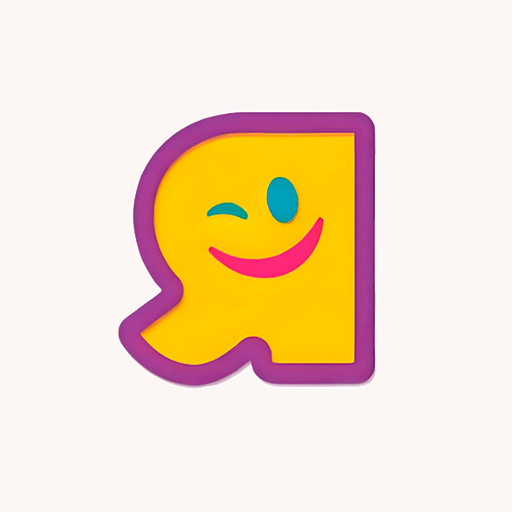
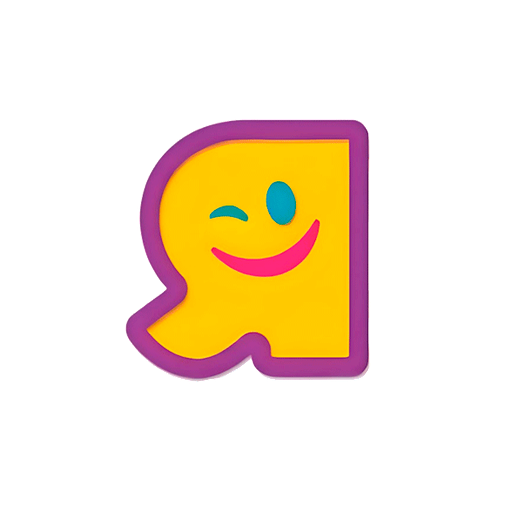
feat: icone PWA branco e card de instalacao no login
Alinha o fluxo de instalar o app com o Células Kids, incluindo iOS, e troca o fundo rosado do icone por branco.

diff --git a/js/pwa.js b/js/pwa.js
@@ -1,6 +1,136 @@
-(function registrarPWA() {
-  if (!('serviceWorker' in navigator)) return;
-  window.addEventListener('load', function () {
-    navigator.serviceWorker.register('./sw.js', { scope: './' }).catch(function () {});
+(function () {
+  const DISMISS_KEY = 'dk_pwa_install_dismissed';
+
+  function injetarEstilos() {
+    if (document.getElementById('videira-pwa-style')) return;
+    const style = document.createElement('style');
+    style.id = 'videira-pwa-style';
+    style.textContent = [
+      '#videira-pwa-install{position:fixed;left:12px;right:12px;bottom:16px;z-index:99999;',
+      'display:none;align-items:center;gap:12px;background:#8b5a6a;color:#fff;',
+      'padding:12px 14px;border-radius:14px;box-shadow:0 10px 30px rgba(74,59,62,.28);',
+      'font-family:Inter,system-ui,sans-serif;box-sizing:border-box;}',
+      '#videira-pwa-install *{box-sizing:border-box;}',
+      '#videira-pwa-install img{width:40px;height:40px;border-radius:10px;flex:0 0 auto;margin:0;display:block;background:#fff;}',
+      '#videira-pwa-install p{margin:0;font-size:13px;line-height:1.3;flex:1 1 auto;min-width:0;color:#fff;text-align:left;}',
+      '#videira-pwa-install strong{display:block;font-size:14px;font-weight:700;color:#fff;}',
+      '#videira-pwa-install .pwa-passos{display:block;margin-top:4px;color:#f3e3e8;font-size:12px;}',
+      '#videira-pwa-install button{width:auto;flex:0 0 auto;margin:0;border:0;border-radius:10px;',
+      'padding:8px 12px;font-size:14px;font-weight:700;line-height:1.2;cursor:pointer;',
+      'box-sizing:border-box;text-align:center;appearance:none;-webkit-appearance:none;transition:none;}',
+      '#videira-pwa-install button:hover{transform:none;}',
+      '#videira-pwa-install .pwa-ok{background:#d4a373;color:#3a2a20;}',
+      '#videira-pwa-install .pwa-ok:hover{background:#c89565;color:#3a2a20;}',
+      '#videira-pwa-install .pwa-no{background:transparent;color:#f3e3e8;padding:8px;}',
+      '#videira-pwa-install .pwa-no:hover{background:transparent;color:#fff;}',
+      '#videira-pwa-install .pwa-share{display:inline-block;width:15px;height:15px;vertical-align:-2px;',
+      'margin-right:3px;fill:#d4a373;}'
+    ].join('');
+    document.head.appendChild(style);
+  }
+
+  function jaInstalado() {
+    return window.matchMedia('(display-mode: standalone)').matches ||
+      window.navigator.standalone === true;
+  }
+
+  function isIOS() {
+    const ua = navigator.userAgent || '';
+    if (/iPad|iPhone|iPod/.test(ua)) return true;
+    return navigator.platform === 'MacIntel' && navigator.maxTouchPoints > 1;
+  }
+
+  function forcarIOS() {
+    try {
+      return new URLSearchParams(window.location.search).get('pwa') === 'ios';
+    } catch (e) {
+      return false;
+    }
+  }
+
+  function registrarSW() {
+    if (!('serviceWorker' in navigator)) return;
+    const swUrl = new URL('sw.js', window.location.href);
+    navigator.serviceWorker.register(swUrl.href, { scope: './' }).catch(function () {});
+  }
+
+  function obterBox(conteudo) {
+    let box = document.getElementById('videira-pwa-install');
+    if (!box) {
+      box = document.createElement('div');
+      box.id = 'videira-pwa-install';
+      box.innerHTML = conteudo;
+      document.body.appendChild(box);
+    }
+    return box;
+  }
+
+  function ativarFechar(box) {
+    const btnNo = box.querySelector('.pwa-no');
+    if (!btnNo) return;
+    btnNo.onclick = function () {
+      sessionStorage.setItem(DISMISS_KEY, '1');
+      box.style.display = 'none';
+    };
+  }
+
+  function mostrarBanner(deferred) {
+    if (jaInstalado()) return;
+    if (sessionStorage.getItem(DISMISS_KEY) === '1') return;
+    injetarEstilos();
+
+    const box = obterBox([
+      '<img src="icons/icon-192.png" alt="Domingo Kids">',
+      '<p><strong>Instalar o app</strong>Acesso rápido na tela inicial</p>',
+      '<button type="button" class="pwa-ok">Instalar</button>',
+      '<button type="button" class="pwa-no" aria-label="Fechar">x</button>'
+    ].join(''));
+
+    box.style.display = 'flex';
+
+    const btnOk = box.querySelector('.pwa-ok');
+    if (btnOk) {
+      btnOk.onclick = function () {
+        box.style.display = 'none';
+        deferred.prompt();
+        deferred.userChoice.finally(function () {});
+      };
+    }
+    ativarFechar(box);
+  }
+
+  const ICONE_COMPARTILHAR =
+    '<svg class="pwa-share" viewBox="0 0 24 24" aria-hidden="true">' +
+    '<path d="M12 2l4 4h-3v7h-2V6H8l4-4zM5 10h3v2H7v9h10v-9h-1v-2h3v13H5V10z"/></svg>';
+
+  function mostrarBannerIOS() {
+    if (jaInstalado()) return;
+    if (!isIOS() && !forcarIOS()) return;
+    if (sessionStorage.getItem(DISMISS_KEY) === '1') return;
+    injetarEstilos();
+
+    const box = obterBox([
+      '<img src="icons/icon-192.png" alt="Domingo Kids">',
+      '<p><strong>Instalar o app</strong>',
+      'Toque em ' + ICONE_COMPARTILHAR + 'Compartilhar e depois em ',
+      '<span class="pwa-passos">"Adicionar à Tela de Início".</span></p>',
+      '<button type="button" class="pwa-no" aria-label="Fechar">x</button>'
+    ].join(''));
+
+    box.style.display = 'flex';
+    ativarFechar(box);
+  }
+
+  registrarSW();
+
+  window.addEventListener('beforeinstallprompt', function (event) {
+    event.preventDefault();
+    mostrarBanner(event);
   });
+
+  if (document.readyState === 'loading') {
+    document.addEventListener('DOMContentLoaded', mostrarBannerIOS);
+  } else {
+    mostrarBannerIOS();
+  }
 })();

diff --git a/equipe.html b/equipe.html
@@ -13,10 +13,11 @@
 
      <link rel="icon" type="image/png" href="icons/icon-192.png">
     <link rel="shortcut icon" type="image/png" href="icons/icon-192.png">
-    <link rel="apple-touch-icon" href="icons/apple-touch-icon.png">
+    <link rel="apple-touch-icon" href="icons/icon-180.png">
 
     <meta name="mobile-web-app-capable" content="yes">
     <meta name="apple-mobile-web-app-capable" content="yes">
+    <meta name="apple-mobile-web-app-status-bar-style" content="black-translucent">
     <meta name="application-name" content="Domingo Kids">
     <meta name="apple-mobile-web-app-title" content="Domingo Kids">
     <meta name="theme-color" content="#8b5a6a">

diff --git a/admin.html b/admin.html
@@ -14,10 +14,11 @@
 
     <link rel="icon" type="image/png" href="icons/icon-192.png">
     <link rel="shortcut icon" type="image/png" href="icons/icon-192.png">
-    <link rel="apple-touch-icon" href="icons/apple-touch-icon.png">
+    <link rel="apple-touch-icon" href="icons/icon-180.png">
 
     <meta name="mobile-web-app-capable" content="yes">
     <meta name="apple-mobile-web-app-capable" content="yes">
+    <meta name="apple-mobile-web-app-status-bar-style" content="black-translucent">
     <meta name="application-name" content="Domingo Kids">
     <meta name="apple-mobile-web-app-title" content="Domingo Kids">
     <meta name="theme-color" content="#8b5a6a">

diff --git a/index.html b/index.html
@@ -14,10 +14,11 @@
 
     <link rel="icon" type="image/png" href="icons/icon-192.png">
     <link rel="shortcut icon" type="image/png" href="icons/icon-192.png">
-    <link rel="apple-touch-icon" href="icons/apple-touch-icon.png">
+    <link rel="apple-touch-icon" href="icons/icon-180.png">
 
     <meta name="mobile-web-app-capable" content="yes">
     <meta name="apple-mobile-web-app-capable" content="yes">
+    <meta name="apple-mobile-web-app-status-bar-style" content="black-translucent">
     <meta name="application-name" content="Domingo Kids">
     <meta name="apple-mobile-web-app-title" content="Domingo Kids">
     <meta name="theme-color" content="#8b5a6a">

diff --git a/novasenha.html b/novasenha.html
@@ -15,10 +15,11 @@
 
     <link rel="icon" type="image/png" href="icons/icon-192.png">
     <link rel="shortcut icon" type="image/png" href="icons/icon-192.png">
-    <link rel="apple-touch-icon" href="icons/apple-touch-icon.png">
+    <link rel="apple-touch-icon" href="icons/icon-180.png">
 
     <meta name="mobile-web-app-capable" content="yes">
     <meta name="apple-mobile-web-app-capable" content="yes">
+    <meta name="apple-mobile-web-app-status-bar-style" content="black-translucent">
     <meta name="application-name" content="Domingo Kids">
     <meta name="apple-mobile-web-app-title" content="Domingo Kids">
     <meta name="theme-color" content="#8b5a6a">

diff --git a/pais.html b/pais.html
@@ -14,10 +14,11 @@
 
     <link rel="icon" type="image/png" href="icons/icon-192.png">
     <link rel="shortcut icon" type="image/png" href="icons/icon-192.png">
-    <link rel="apple-touch-icon" href="icons/apple-touch-icon.png">
+    <link rel="apple-touch-icon" href="icons/icon-180.png">
 
     <meta name="mobile-web-app-capable" content="yes">
     <meta name="apple-mobile-web-app-capable" content="yes">
+    <meta name="apple-mobile-web-app-status-bar-style" content="black-translucent">
     <meta name="application-name" content="Domingo Kids">
     <meta name="apple-mobile-web-app-title" content="Domingo Kids">
     <meta name="theme-color" content="#8b5a6a">

diff --git a/sw.js b/sw.js
@@ -1,4 +1,4 @@
-const CACHE = 'domingokids-v1';
+const CACHE = 'domingokids-v2';
 const PRECACHE = [
   './manifest.json',
   './config.js',
@@ -8,6 +8,7 @@ const PRECACHE = [
   './js/biometria.js',
   './icons/icon-192.png',
   './icons/icon-512.png',
+  './icons/icon-180.png',
   './icons/apple-touch-icon.png',
   './logo.png',
   './logo3.png'
